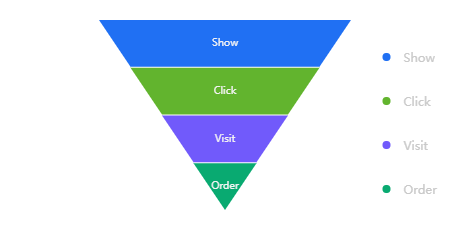
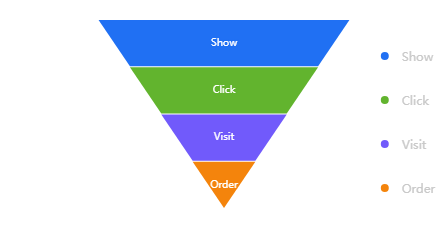
docs(FunnelChart): modify funnelchart examples and screenshots

diff --git a/public/option/FunnelChart/FunnelChart-8.js b/public/option/FunnelChart/FunnelChart-8.js
@@ -9,7 +9,7 @@ const option = {
             width: '80%',
             label: {
                 formatter: '{b}Expected',
-                position: 'outside'
+                position: 'outside',
             },
             itemStyle: {
                 opacity: 0.7,
@@ -37,10 +37,7 @@ const option = {
             label: {
                 position: 'inside',
                 formatter: '{c}%',
-            },
-            itemStyle: {
-                opacity: 1,
-                borderWidth: 2
+                color: '#ffffff'
             },
             emphasis: {
                 label: {

diff --git a/public/option/FunnelChart/FunnelChart-9.js b/public/option/FunnelChart/FunnelChart-9.js
@@ -1,7 +1,12 @@
 const option = {
     theme: 'light',
-    maxSize: '80%',
-    minSize: '10%',
+    size:{
+        maxSize: '80%',
+        minSize: '10%'
+    },
+    label: {
+        color: '#ffffff'
+    },
     data: [
         { value: 100, name: 'Show' },
         { value: 50, name: 'Click' },

diff --git a/public/option/FunnelChart/FunnelChart-4.js b/public/option/FunnelChart/FunnelChart-4.js
@@ -6,6 +6,9 @@ const option = {
         '#ffbf00',
         '#41ba41',
     ],// 自定义颜色组，循环使用该颜色组
+    label: {
+        color: '#ffffff'
+    },
     data: [
         { value: 100, name: 'Show' },
         { value: 75, name: 'Click' },

diff --git a/public/option/FunnelChart/FunnelChart-5.js b/public/option/FunnelChart/FunnelChart-5.js
@@ -7,6 +7,9 @@ const option = {
         left: '85%',
         orient: 'vertical',
     },
+    label: {
+        color: '#ffffff'
+    },
     data: [
         { value: 100, name: 'Show' },
         { value: 75, name: 'Click' },

diff --git a/public/option/FunnelChart/FunnelChart-6.js b/public/option/FunnelChart/FunnelChart-6.js
@@ -14,6 +14,9 @@ const option = {
             return htmlString
         },
     },
+    label: {
+        color: '#ffffff'
+    },
     data: [
         { value: 100, name: 'Show' },
         { value: 75, name: 'Click' },

diff --git a/public/option/FunnelChart/FunnelChart-2.js b/public/option/FunnelChart/FunnelChart-2.js
@@ -1,6 +1,9 @@
 const option = {
     theme: 'light',
     sort: 'ascending',
+    label: {
+        color: '#ffffff'
+    },
     data: [
         { value: 100, name: 'Show' },
         { value: 75, name: 'Click' },

diff --git a/public/option/FunnelChart/FunnelChart-1.js b/public/option/FunnelChart/FunnelChart-1.js
@@ -1,5 +1,8 @@
 const option = {
     theme: 'light',
+    label: {
+        color: '#ffffff'
+    },
     data: [
         { value: 100, name: 'Show' },
         { value: 75, name: 'Click' },

diff --git a/public/option/FunnelChart/FunnelChart-3.js b/public/option/FunnelChart/FunnelChart-3.js
@@ -1,6 +1,9 @@
 const option = {
     theme: 'light',
     gap: 10,
+    label: {
+        color: '#ffffff'
+    },
     size: {
         width: '80%',
         height: '80%',
